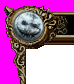
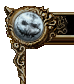
Add layered window support and update UI resources
- Updated `KUpdater.csproj` to include new PNG resources for borders.
- Refactored `MainForm.Designer.cs` to remove unnecessary panels and change the form's background color to black, renaming it to `MainForm`.
- Enhanced `MainForm.cs` with layered window functionality, enabling transparency and custom background drawing, along with mouse event handling for dragging and closing the window.
- Updated `Resources.Designer.cs` and `Resources.resx` to include new button images (`btn_close`, `btn_default`, `btn_on`, `btn_over`).
- Added `NativeMethods.cs` for P/Invoke declarations related to layered window management.
- Updated several PNG files for UI elements to reflect new designs.

Changed region(s): [[0.0, 0.0, 1.0, 1.0]]

diff --git a/KUpdater/MainForm.Designer.cs b/KUpdater/MainForm.Designer.cs
@@ -1,3 +1,4 @@
+
 namespace KUpdater
 {
     partial class MainForm
@@ -28,147 +29,20 @@ namespace KUpdater
         /// </summary>
         private void InitializeComponent()
         {
-            panel_main = new Panel();
-            border_bottom_right = new Panel();
-            border_top_center = new Panel();
-            border_top_right = new Panel();
-            border_right_center = new Panel();
-            border_bottom_center = new Panel();
-            border_bottom_left = new Panel();
-            border_left_center = new Panel();
-            panel_top_left = new Panel();
-            panel_main.SuspendLayout();
             SuspendLayout();
             // 
-            // panel_main
-            // 
-            panel_main.AutoSizeMode = AutoSizeMode.GrowAndShrink;
-            panel_main.BackColor = Color.Black;
-            panel_main.BackgroundImageLayout = ImageLayout.None;
-            panel_main.Controls.Add(border_bottom_right);
-            panel_main.Controls.Add(border_top_center);
-            panel_main.Controls.Add(border_top_right);
-            panel_main.Controls.Add(border_right_center);
-            panel_main.Controls.Add(border_bottom_center);
-            panel_main.Controls.Add(border_bottom_left);
-            panel_main.Controls.Add(border_left_center);
-            panel_main.Controls.Add(panel_top_left);
-            panel_main.Dock = DockStyle.Fill;
-            panel_main.Location = new Point(0, 0);
-            panel_main.Margin = new Padding(0);
-            panel_main.Name = "panel_main";
-            panel_main.Size = new Size(850, 500);
-            panel_main.TabIndex = 0;
-            // 
-            // border_bottom_right
-            // 
-            border_bottom_right.Anchor = AnchorStyles.Bottom | AnchorStyles.Right;
-            border_bottom_right.BackColor = Color.Transparent;
-            border_bottom_right.BackgroundImage = Properties.Resources.border_bottom_right;
-            border_bottom_right.BackgroundImageLayout = ImageLayout.None;
-            border_bottom_right.Location = new Point(820, 436);
-            border_bottom_right.Name = "border_bottom_right";
-            border_bottom_right.Size = new Size(30, 64);
-            border_bottom_right.TabIndex = 4;
-            // 
-            // border_top_center
-            // 
-            border_top_center.Anchor = AnchorStyles.Top | AnchorStyles.Left | AnchorStyles.Right;
-            border_top_center.BackColor = Color.Transparent;
-            border_top_center.BackgroundImage = Properties.Resources.border_top_center;
-            border_top_center.Location = new Point(74, 0);
-            border_top_center.Name = "border_top_center";
-            border_top_center.Size = new Size(727, 50);
-            border_top_center.TabIndex = 7;
-            // 
-            // border_top_right
-            // 
-            border_top_right.Anchor = AnchorStyles.Top | AnchorStyles.Right;
-            border_top_right.BackColor = Color.Transparent;
-            border_top_right.BackgroundImage = Properties.Resources.border_top_right;
-            border_top_right.BackgroundImageLayout = ImageLayout.None;
-            border_top_right.Location = new Point(801, 0);
-            border_top_right.Name = "border_top_right";
-            border_top_right.Size = new Size(49, 84);
-            border_top_right.TabIndex = 6;
-            // 
-            // border_right_center
-            // 
-            border_right_center.Anchor = AnchorStyles.Top | AnchorStyles.Bottom | AnchorStyles.Right;
-            border_right_center.BackColor = Color.Transparent;
-            border_right_center.BackgroundImage = Properties.Resources.border_right_center;
-            border_right_center.Location = new Point(821, 84);
-            border_right_center.Name = "border_right_center";
-            border_right_center.Size = new Size(29, 355);
-            border_right_center.TabIndex = 5;
-            // 
-            // border_bottom_center
-            // 
-            border_bottom_center.Anchor = AnchorStyles.Bottom | AnchorStyles.Left | AnchorStyles.Right;
-            border_bottom_center.BackColor = Color.Transparent;
-            border_bottom_center.BackgroundImage = Properties.Resources.border_bottom_center;
-            border_bottom_center.Location = new Point(30, 472);
-            border_bottom_center.Name = "border_bottom_center";
-            border_bottom_center.Size = new Size(790, 28);
-            border_bottom_center.TabIndex = 3;
-            // 
-            // border_bottom_left
-            // 
-            border_bottom_left.Anchor = AnchorStyles.Bottom | AnchorStyles.Left;
-            border_bottom_left.BackColor = Color.Transparent;
-            border_bottom_left.BackgroundImage = Properties.Resources.border_bottom_left;
-            border_bottom_left.BackgroundImageLayout = ImageLayout.None;
-            border_bottom_left.Location = new Point(0, 436);
-            border_bottom_left.Name = "border_bottom_left";
-            border_bottom_left.Size = new Size(30, 64);
-            border_bottom_left.TabIndex = 2;
-            // 
-            // border_left_center
-            // 
-            border_left_center.Anchor = AnchorStyles.Top | AnchorStyles.Bottom | AnchorStyles.Left;
-            border_left_center.BackColor = Color.Transparent;
-            border_left_center.BackgroundImage = Properties.Resources.border_left_center;
-            border_left_center.Location = new Point(0, 84);
-            border_left_center.Name = "border_left_center";
-            border_left_center.Size = new Size(31, 355);
-            border_left_center.TabIndex = 1;
-            // 
-            // panel_top_left
-            // 
-            panel_top_left.BackColor = Color.Transparent;
-            panel_top_left.BackgroundImage = Properties.Resources.border_top_left;
-            panel_top_left.BackgroundImageLayout = ImageLayout.None;
-            panel_top_left.Location = new Point(0, 0);
-            panel_top_left.Margin = new Padding(0);
-            panel_top_left.Name = "panel_top_left";
-            panel_top_left.Size = new Size(74, 84);
-            panel_top_left.TabIndex = 0;
-            // 
-            // Form1
+            // MainForm
             // 
             AutoScaleDimensions = new SizeF(7F, 15F);
             AutoScaleMode = AutoScaleMode.Font;
-            BackColor = Color.Magenta;
-            ClientSize = new Size(850, 500);
-            Controls.Add(panel_main);
+            BackColor = Color.Black;
+            ClientSize = new Size(938, 565);
+            DoubleBuffered = true;
             FormBorderStyle = FormBorderStyle.None;
-            Name = "Form1";
-            Text = "Form1";
-            TransparencyKey = Color.Magenta;
-            panel_main.ResumeLayout(false);
+            Name = "MainForm";
             ResumeLayout(false);
         }
 
         #endregion
-
-        private Panel panel_main;
-        private Panel panel_top_left;
-        private Panel border_bottom_left;
-        private Panel border_left_center;
-        private Panel border_bottom_center;
-        private Panel border_right_center;
-        private Panel border_bottom_right;
-        private Panel border_top_center;
-        private Panel border_top_right;
     }
 }

diff --git a/KUpdater/MainForm.cs b/KUpdater/MainForm.cs
@@ -1,10 +1,146 @@
+using System.Drawing;
+using System.Drawing.Imaging;
+using System.Reflection;
+using System.Runtime.InteropServices;
+using System.Windows.Forms;
+
 namespace KUpdater
 {
     public partial class MainForm : Form
     {
+        private bool dragging = false;
+        private Point dragStart;
         public MainForm()
         {
             InitializeComponent();
+            this.FormBorderStyle = FormBorderStyle.None;
+            this.StartPosition = FormStartPosition.CenterScreen;
         }
+
+        protected override CreateParams CreateParams
+        {
+            get
+            {
+                var cp = base.CreateParams;
+                cp.ExStyle |= 0x80000; // WS_EX_LAYERED
+                return cp;
+            }
+        }
+
+        protected override void OnShown(EventArgs e)
+        {
+            base.OnShown(e);
+            ApplyLayeredBackground();
+        }
+
+        private void ApplyLayeredBackground()
+        {
+            int width = this.Width;
+            int height = this.Height;
+
+            Bitmap bmp = new Bitmap(width, height, PixelFormat.Format32bppArgb);
+            using (Graphics g = Graphics.FromImage(bmp))
+            {
+                g.Clear(Color.Transparent);
+                g.InterpolationMode = System.Drawing.Drawing2D.InterpolationMode.HighQualityBicubic;
+
+                // Rahmen-Grafiken laden (ersetze Pfade ggf.)
+                var topLeft = Image.FromFile("Resources/border_top_left.png");
+                var topCenter = Image.FromFile("Resources/border_top_center.png");
+                var topRight = Image.FromFile("Resources/border_top_right.png");
+                var rightCenter = Image.FromFile("Resources/border_right_center.png");
+                var bottomRight = Image.FromFile("Resources/border_bottom_right.png");
+                var bottomCenter = Image.FromFile("Resources/border_bottom_center.png");
+                var bottomLeft = Image.FromFile("Resources/border_bottom_left.png");
+                var leftCenter = Image.FromFile("Resources/border_left_center.png");
+
+                int topHeight = topCenter.Height;
+                int bottomHeight = bottomCenter.Height;
+                int sideWidth = leftCenter.Width;
+
+                
+                // Ecken zeichnen
+                g.DrawImage(topLeft, 0, 0, topLeft.Width, topLeft.Height);
+                g.DrawImage(topRight, width - topRight.Width, 0, topRight.Width, topRight.Height);
+                g.DrawImage(bottomLeft, 0, height - bottomLeft.Height, bottomLeft.Width, bottomLeft.Height);
+                g.DrawImage(bottomRight, width - bottomRight.Width +1, height - bottomRight.Height, bottomRight.Width, bottomRight.Height);
+
+                // Kanten strecken/zeichnen
+                g.DrawImage(topCenter, new Rectangle(topLeft.Width, 0, width - topLeft.Width - topRight.Width + 10, topCenter.Height));
+                g.DrawImage(bottomCenter, new Rectangle(bottomLeft.Width, height - bottomCenter.Height, width - bottomLeft.Width - bottomRight.Width + 21, bottomCenter.Height));
+                g.DrawImage(leftCenter, new Rectangle(0, topLeft.Height, leftCenter.Width, height - topLeft.Height - bottomLeft.Height + 5));
+                g.DrawImage(rightCenter, new Rectangle(width - rightCenter.Width, topRight.Height, rightCenter.Width, height - topRight.Height - bottomRight.Height + 5));
+
+                // Optional: Innenfläche ausfüllen
+                g.FillRectangle(Brushes.Black, new Rectangle(leftCenter.Width - 5, topCenter.Height - 5, width - leftCenter.Width * 2 + 12, height - topCenter.Height - bottomCenter.Height + 9));
+            }
+
+            SetBitmap(bmp, 255);
+        }
+
+
+        private void SetBitmap(Bitmap bitmap, byte opacity)
+        {
+            IntPtr screenDc = NativeMethods.GetDC(IntPtr.Zero);
+            IntPtr memDc = NativeMethods.CreateCompatibleDC(screenDc);
+            IntPtr hBitmap = bitmap.GetHbitmap(Color.FromArgb(0));
+            IntPtr oldBitmap = NativeMethods.SelectObject(memDc, hBitmap);
+
+            var size = new Size(bitmap.Width, bitmap.Height);
+            var pointSource = new Point(0, 0);
+            var topPos = new Point(this.Left, this.Top);
+
+            NativeMethods.BLENDFUNCTION blend = new NativeMethods.BLENDFUNCTION
+            {
+                BlendOp = NativeMethods.AC_SRC_OVER,
+                BlendFlags = 0,
+                SourceConstantAlpha = opacity,
+                AlphaFormat = NativeMethods.AC_SRC_ALPHA
+            };
+
+            NativeMethods.UpdateLayeredWindow(this.Handle, screenDc, ref topPos, ref size, memDc,
+                ref pointSource, 0, ref blend, NativeMethods.ULW_ALPHA);
+
+            NativeMethods.SelectObject(memDc, oldBitmap);
+            NativeMethods.DeleteObject(hBitmap);
+            NativeMethods.DeleteDC(memDc);
+            NativeMethods.ReleaseDC(IntPtr.Zero, screenDc);
+        }
+
+        protected override void OnMouseClick(MouseEventArgs e)
+        {
+            var closeRect = new Rectangle(this.Width - 35, 15, 20, 20); // Position des Close-Buttons
+            if (closeRect.Contains(e.Location))
+            {
+                this.Close();
+            }
+        }
+
+        protected override void OnMouseDown(MouseEventArgs e)
+        {
+            if (e.Button == MouseButtons.Left && e.Y < 50)
+            {
+                dragging = true;
+                dragStart = new Point(e.X, e.Y);
+            }
+        }
+
+        protected override void OnMouseMove(MouseEventArgs e)
+        {
+            if (dragging)
+            {
+                Point newLocation = new Point(this.Left + e.X - dragStart.X, this.Top + e.Y - dragStart.Y);
+                this.Location = newLocation;
+            }
+        }
+
+        protected override void OnMouseUp(MouseEventArgs e)
+        {
+            if (e.Button == MouseButtons.Left)
+            {
+                dragging = false;
+            }
+        }
+
     }
 }

diff --git a/KUpdater/Properties/Resources.Designer.cs b/KUpdater/Properties/Resources.Designer.cs
@@ -139,5 +139,45 @@ namespace KUpdater.Properties {
                 return ((System.Drawing.Bitmap)(obj));
             }
         }
+        
+        /// <summary>
+        ///   Looks up a localized resource of type System.Drawing.Bitmap.
+        /// </summary>
+        internal static System.Drawing.Bitmap btn_close {
+            get {
+                object obj = ResourceManager.GetObject("btn_close", resourceCulture);
+                return ((System.Drawing.Bitmap)(obj));
+            }
+        }
+        
+        /// <summary>
+        ///   Looks up a localized resource of type System.Drawing.Bitmap.
+        /// </summary>
+        internal static System.Drawing.Bitmap btn_default {
+            get {
+                object obj = ResourceManager.GetObject("btn-default", resourceCulture);
+                return ((System.Drawing.Bitmap)(obj));
+            }
+        }
+        
+        /// <summary>
+        ///   Looks up a localized resource of type System.Drawing.Bitmap.
+        /// </summary>
+        internal static System.Drawing.Bitmap btn_on {
+            get {
+                object obj = ResourceManager.GetObject("btn_on", resourceCulture);
+                return ((System.Drawing.Bitmap)(obj));
+            }
+        }
+        
+        /// <summary>
+        ///   Looks up a localized resource of type System.Drawing.Bitmap.
+        /// </summary>
+        internal static System.Drawing.Bitmap btn_over {
+            get {
+                object obj = ResourceManager.GetObject("btn_over", resourceCulture);
+                return ((System.Drawing.Bitmap)(obj));
+            }
+        }
     }
 }

diff --git a/KUpdater/NativeMethods.cs b/KUpdater/NativeMethods.cs
@@ -1,0 +1,44 @@
+using System;
+using System.Drawing;
+using System.Runtime.InteropServices;
+
+internal static class NativeMethods
+{
+    public const int ULW_ALPHA = 0x00000002;
+    public const byte AC_SRC_OVER = 0x00;
+    public const byte AC_SRC_ALPHA = 0x01;
+
+    [DllImport("user32.dll", SetLastError = true)]
+    public static extern bool UpdateLayeredWindow(IntPtr hwnd, IntPtr hdcDst, ref Point pptDst,
+        ref Size psize, IntPtr hdcSrc, ref Point pptSrc, int crKey, ref BLENDFUNCTION pblend, int dwFlags);
+
+    [DllImport("user32.dll")]
+    public static extern IntPtr GetDC(IntPtr hWnd);
+
+    [DllImport("user32.dll")]
+    public static extern int ReleaseDC(IntPtr hWnd, IntPtr hDC);
+
+    [DllImport("gdi32.dll")]
+    public static extern IntPtr CreateCompatibleDC(IntPtr hdc);
+
+    [DllImport("gdi32.dll")]
+    public static extern bool DeleteDC(IntPtr hdc);
+
+    [DllImport("gdi32.dll")]
+    public static extern IntPtr SelectObject(IntPtr hdc, IntPtr hgdiobj);
+
+    [DllImport("gdi32.dll")]
+    public static extern bool DeleteObject(IntPtr hObject);
+
+    [StructLayout(LayoutKind.Sequential, Pack = 1)]
+    public struct BLENDFUNCTION
+    {
+        public byte BlendOp;
+        public byte BlendFlags;
+        public byte SourceConstantAlpha;
+        public byte AlphaFormat;
+    }
+
+    [DllImport("user32.dll")]
+    public static extern int SendMessage(IntPtr hWnd, int Msg, int wParam, int lParam);
+}
